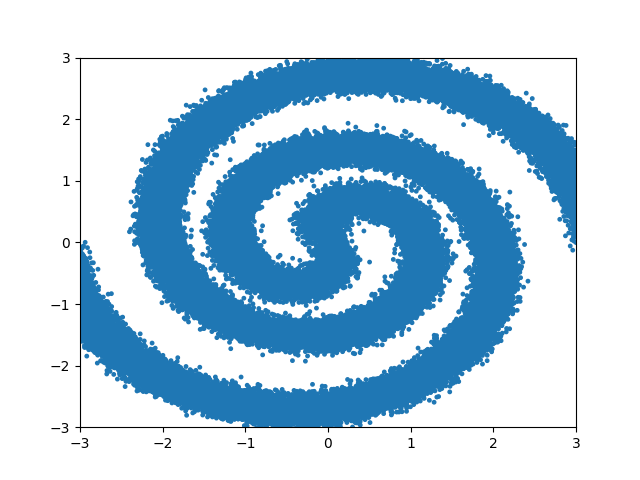
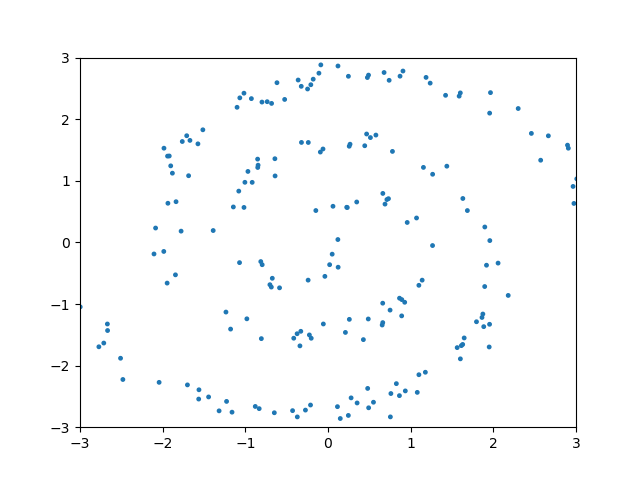
generic commit

diff --git a/scripts/transport/c_transport.py b/scripts/transport/c_transport.py
@@ -179,45 +179,10 @@ class CondTransportKernel(nn.Module):
 
 
     def loss_test(self):
-
-        #x_mu = torch.tensor(mgan2(len(self.Y_eta_test))[:,0], device = self.device)
-        #x_mu = self.X_mu_test
-
-        #y_eta = self.Y_eta_test
-        #target = self.Y_test
-
         x_mu = self.X_mu_test
         y_eta = self.Y_eta_test
         target = self.Y_test
-
         map_vec = self.map(x_mu, y_eta)
-
-        if self.iters < 50:
-            print(torch.concat([self.X_mu_test,self.Y_eta_test],dim = 1)[0])
-            print(map_vec[0])
-
-        #map_vec = self.map(x_mu, y_eta)
-
-        range = [[-3, 3], [-3, 3]]
-        x_left, x_right = range[0]
-        y_bottom, y_top = range[1]
-
-        plot_vec = map_vec.detach().cpu().numpy()
-        x, y = plot_vec.T
-        plt.scatter(x, y, s = 5)
-        plt.xlim(x_left, x_right)
-        plt.ylim(y_bottom, y_top)
-        plt.savefig('c_output_scatter_1.png')
-        clear_plt()
-        if self.iters < 50:
-            plot_vec = target.detach().cpu().numpy()
-            x, y = plot_vec.T
-            plt.scatter(x, y, s = 5)
-            plt.xlim(x_left, x_right)
-            plt.ylim(y_bottom, y_top)
-            plt.savefig('c_target_scatter.png')
-            clear_plt()
-
         return self.mmd(map_vec, target)
 
 
@@ -427,7 +392,7 @@ def run():
     target_gen = sample_spirals
     range = [[-3,3],[-3,3]]
 
-    conditional_transport_exp(ref_gen, target_gen, N=5000, n_iter=2001, slice_vals=[0],
+    conditional_transport_exp(ref_gen, target_gen, N=1001, n_iter=1001, slice_vals=[0],
                               exp_name='spiral_composed', plt_range=range, slice_range=[-3,3], process_funcs=[])
 
     #slice_range = [-2.5,2.5]
